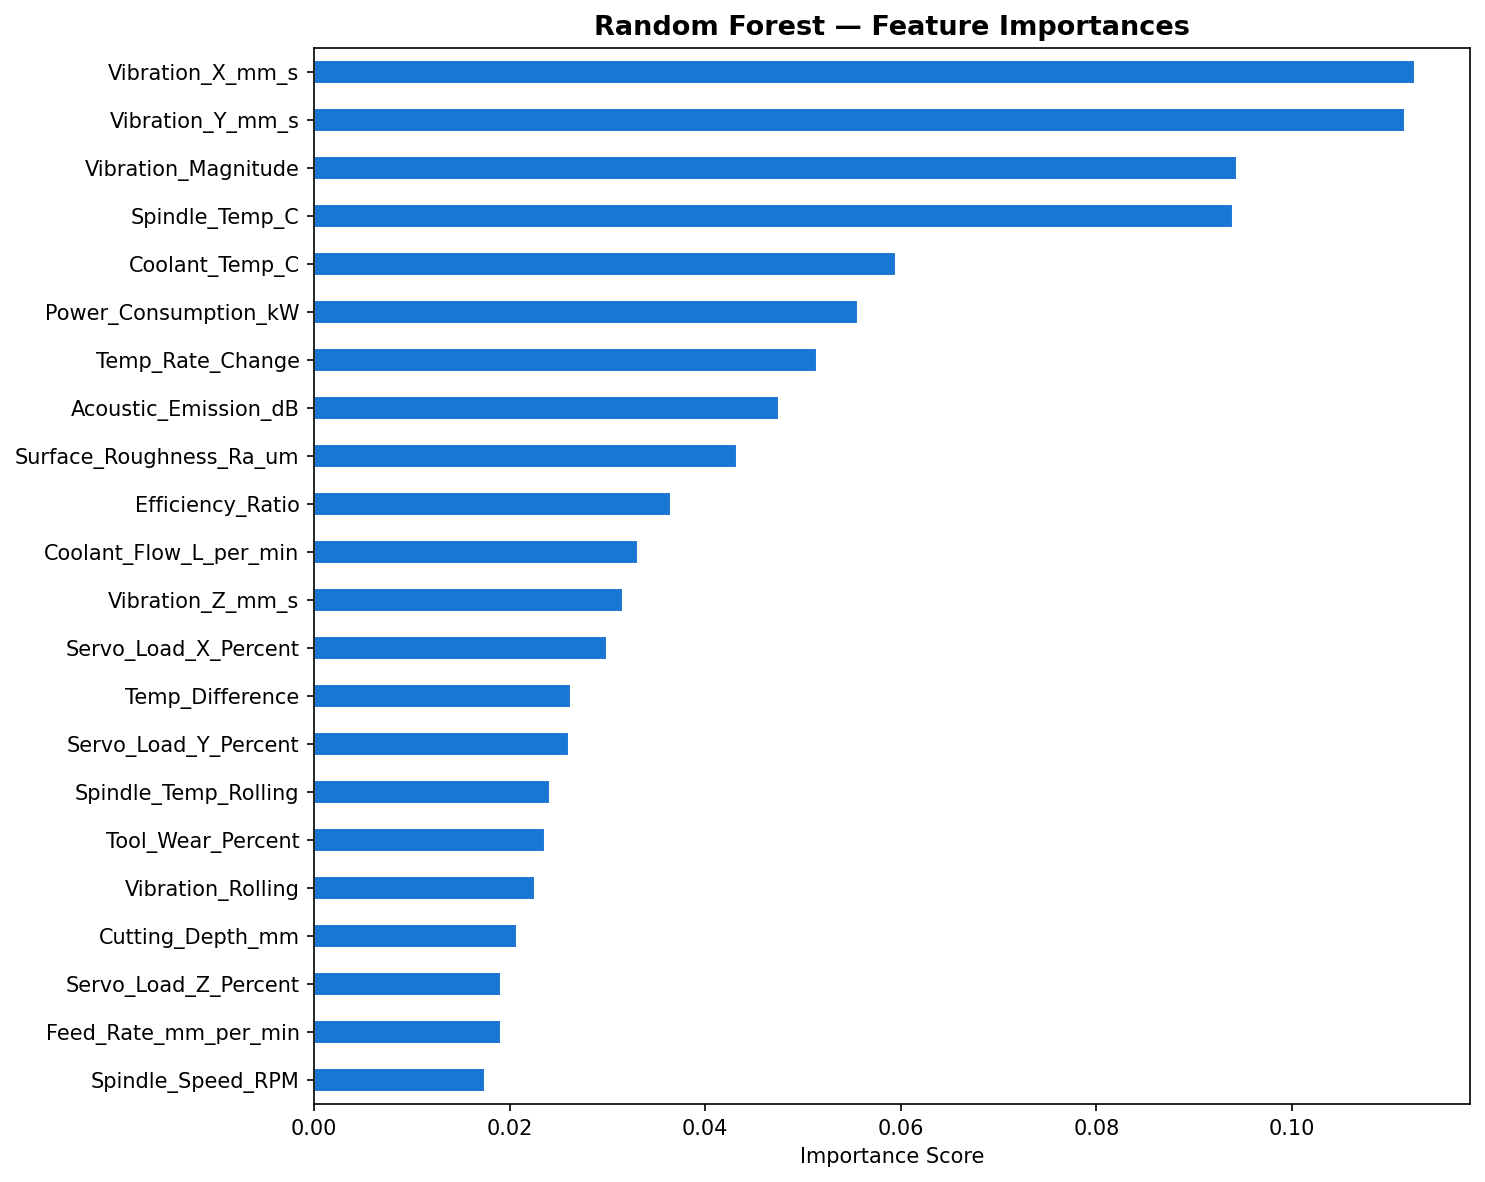
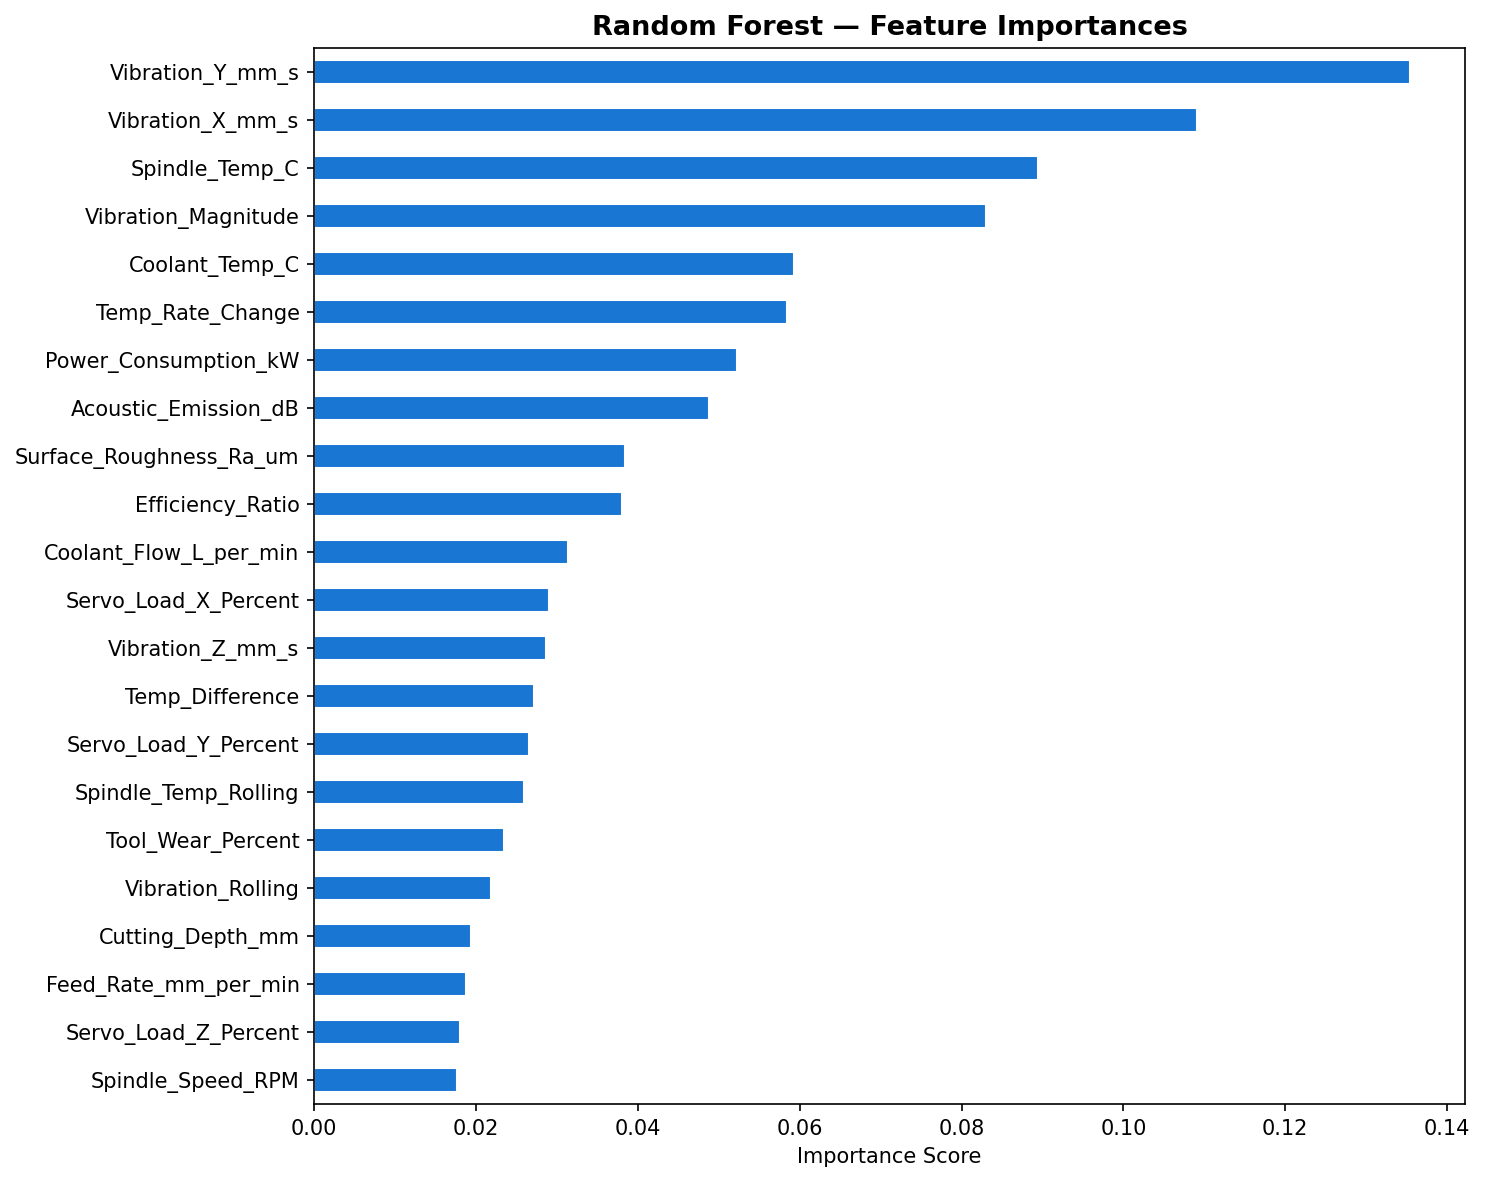
Fix SMOTE/GridSearchCV leakage by resampling inside each CV fold
SMOTE was applied once, globally, before GridSearchCV ran its internal
cross-validation. Synthetic minority samples and the real neighbors
they were interpolated from could land in different CV folds, so folds
weren't actually independent - this inflated CV scores. Confirmed:
Random Forest's reported CV AUC was 0.9963 versus its real held-out
test AUC of 0.8788, a huge and suspicious gap.

Fix: wrap SMOTE + each estimator in an imblearn Pipeline and fit
GridSearchCV on the raw (pre-SMOTE) training data, so SMOTE reruns
fresh inside every fold. Result: Random Forest's CV AUC now sits at
0.8723, honestly close to its test AUC - confirming the fix. As a
side benefit, Decision Tree's search now correctly penalizes
overfitting and picks max_depth=5 instead of 15, taking its test
accuracy from ~86-90% to 96.78% (precision 95.87%) - a real
improvement, not a CV artifact.

diff --git a/cnc_predictive_maintenance.py b/cnc_predictive_maintenance.py
@@ -19,6 +19,7 @@ from tensorflow.keras.models import Sequential
 from tensorflow.keras.layers import LSTM, Dense, Dropout
 from tensorflow.keras.callbacks import EarlyStopping
 from imblearn.over_sampling import SMOTE
+from imblearn.pipeline import Pipeline as ImbPipeline
 import warnings
 warnings.filterwarnings('ignore')
 
@@ -273,27 +274,36 @@ print("=" * 60)
 tuning_grids = {
     'Logistic Regression': (
         LogisticRegression(max_iter=1000, random_state=42),
-        {'C': [0.01, 0.1, 1, 10, 100], 'class_weight': [None, 'balanced']}
+        {'clf__C': [0.01, 0.1, 1, 10, 100], 'clf__class_weight': [None, 'balanced']}
     ),
     'Random Forest': (
         RandomForestClassifier(random_state=42),
-        {'n_estimators': [100, 200], 'max_depth': [None, 15],
-         'min_samples_split': [2, 5]}
+        {'clf__n_estimators': [100, 200], 'clf__max_depth': [None, 15],
+         'clf__min_samples_split': [2, 5]}
     ),
     'Decision Tree': (
         DecisionTreeClassifier(random_state=42),
-        {'max_depth': [5, 10, 15, None], 'min_samples_split': [2, 5, 10]}
+        {'clf__max_depth': [5, 10, 15, None], 'clf__min_samples_split': [2, 5, 10]}
     ),
 }
 
+# SMOTE must be refit inside each CV fold, not applied once beforehand -
+# otherwise synthetic points and the real neighbors they were interpolated
+# from can land in different folds, leaking information across the CV split
+# and inflating the reported CV score (confirmed: this previously showed
+# Random Forest at 0.996 CV AUC vs its real 0.877 test AUC).
 for name, (estimator, param_grid) in tuning_grids.items():
     print(f"\nTuning {name}...")
-    grid = GridSearchCV(estimator, param_grid, scoring='roc_auc', cv=3, n_jobs=-1)
-    grid.fit(X_train_smote, y_train_smote)
+    pipe = ImbPipeline([
+        ('smote', SMOTE(random_state=42)),
+        ('clf', estimator)
+    ])
+    grid = GridSearchCV(pipe, param_grid, scoring='roc_auc', cv=3, n_jobs=-1)
+    grid.fit(X_train, y_train)  # raw (pre-SMOTE) training data
     print(f"  Best params: {grid.best_params_}")
     print(f"  Best CV AUC: {grid.best_score_:.4f}")
 
-    tuned_model = grid.best_estimator_
+    tuned_model = grid.best_estimator_.named_steps['clf']
     y_pred = tuned_model.predict(X_test)
     results[name] = {
         'model': tuned_model,
